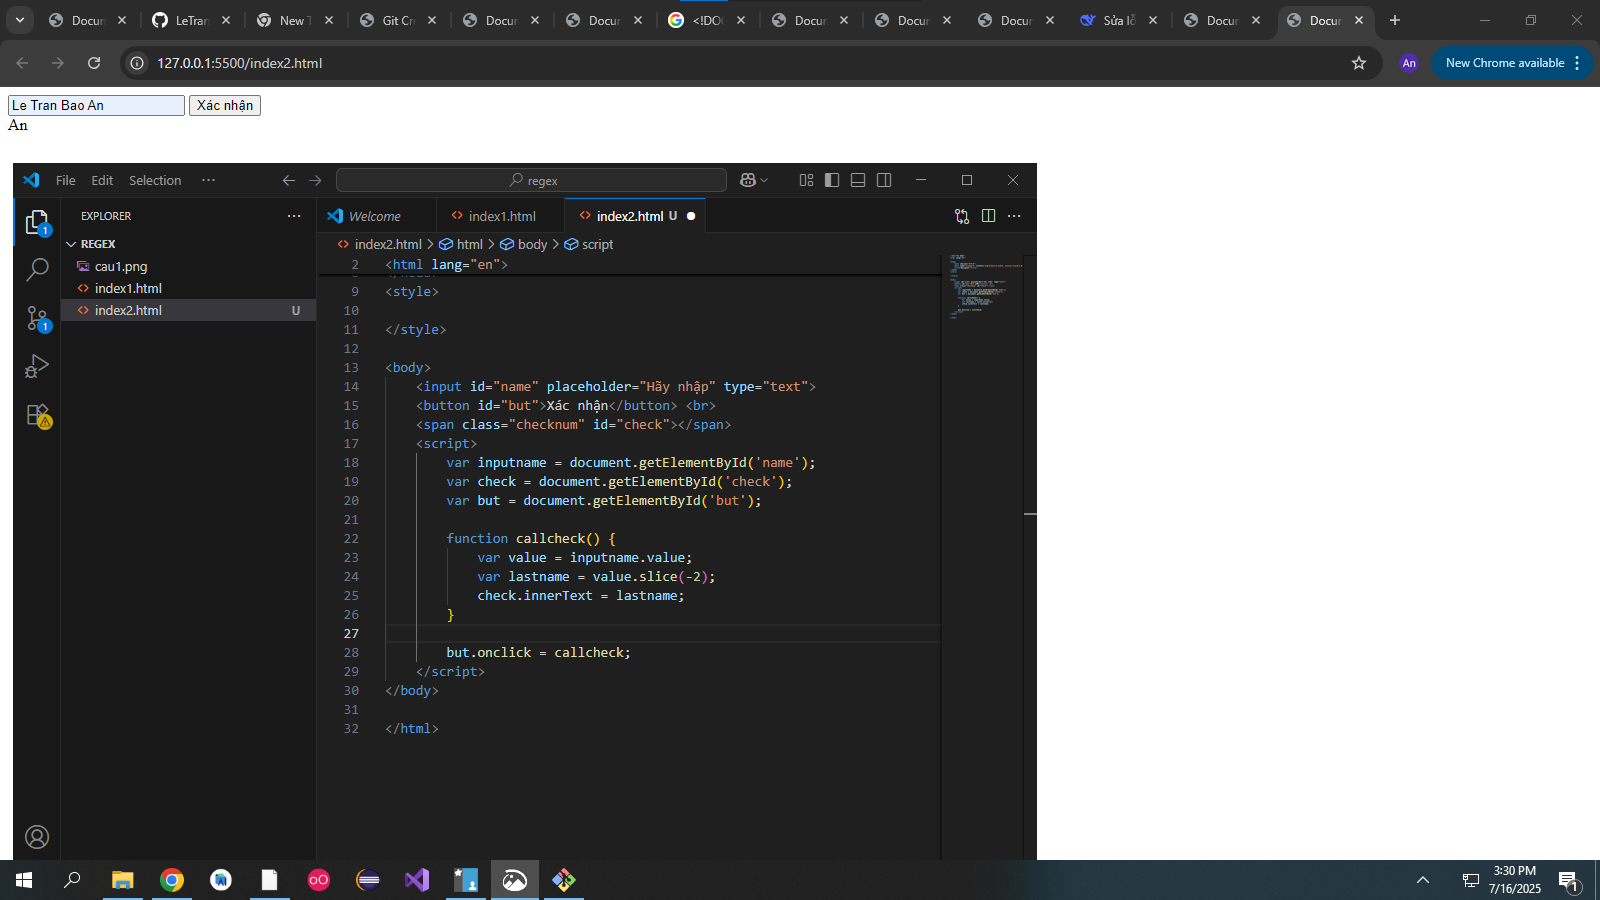
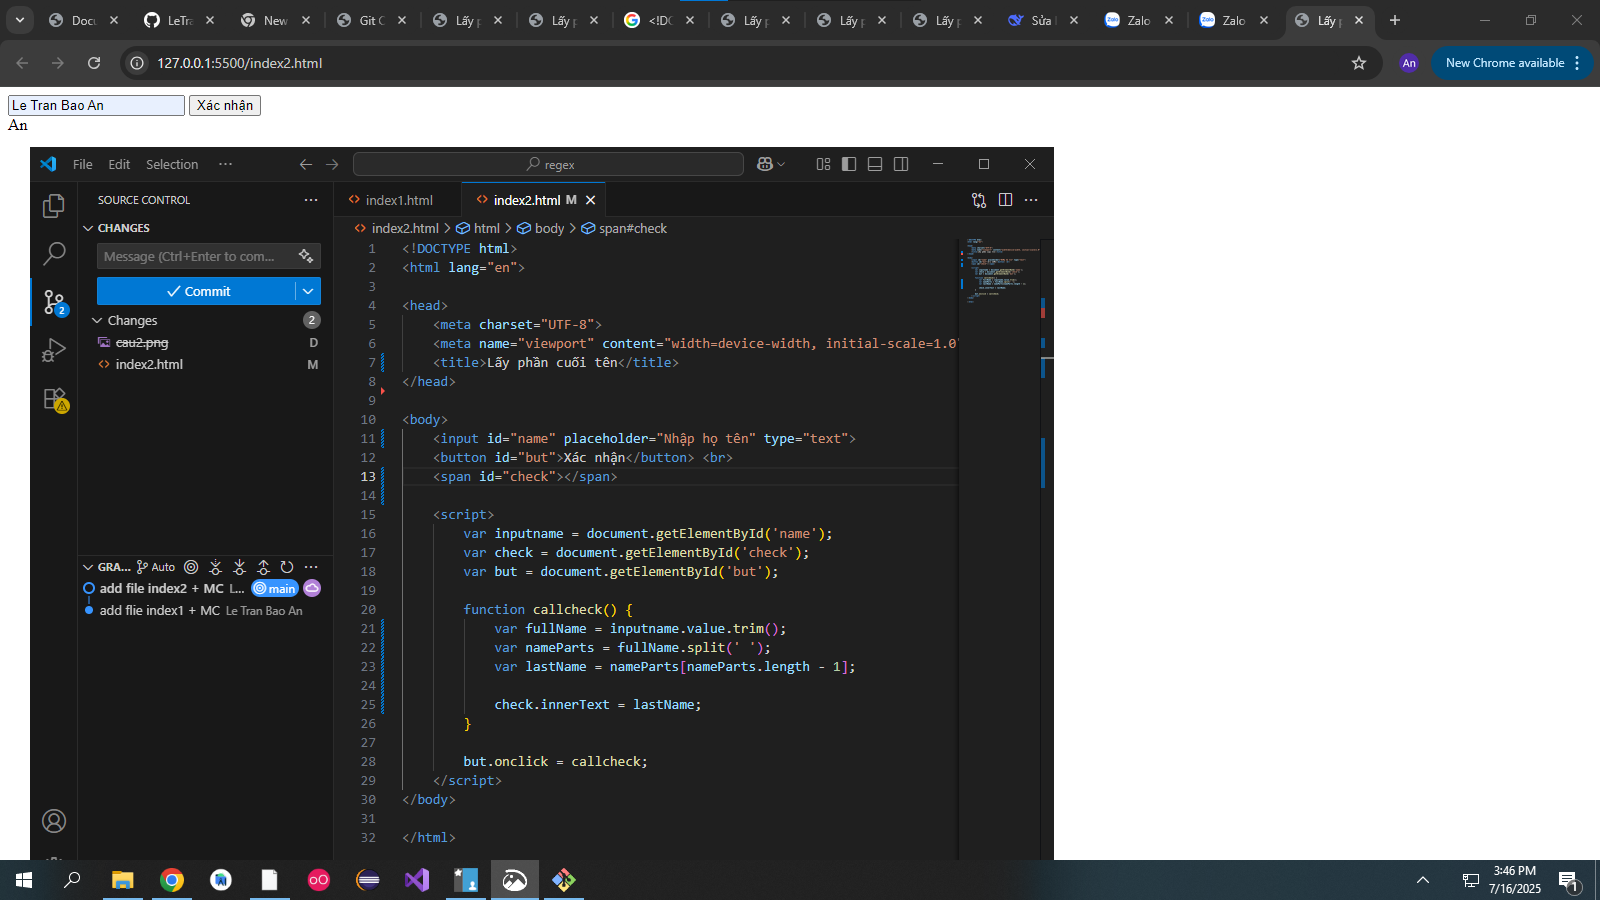
display add file index2 + MC

diff --git a/index2.html b/index2.html
@@ -4,25 +4,25 @@
 <head>
     <meta charset="UTF-8">
     <meta name="viewport" content="width=device-width, initial-scale=1.0">
-    <title>Document</title>
+    <title>Lấy phần cuối tên</title>
 </head>
-<style>
-
-</style>
 
 <body>
-    <input id="name" placeholder="Hãy nhập" type="text">
+    <input id="name" placeholder="Nhập họ tên" type="text">
     <button id="but">Xác nhận</button> <br>
-    <span class="checknum" id="check"></span>
+    <span id="check"></span>
+
     <script>
         var inputname = document.getElementById('name');
         var check = document.getElementById('check');
         var but = document.getElementById('but');
 
         function callcheck() {
-            var value = inputname.value;
-            var lastname = value.slice(-2);
-            check.innerText = lastname;
+            var fullName = inputname.value.trim();
+            var nameParts = fullName.split(' ');
+            var lastName = nameParts[nameParts.length - 1];
+
+            check.innerText = lastName;
         }
 
         but.onclick = callcheck;
